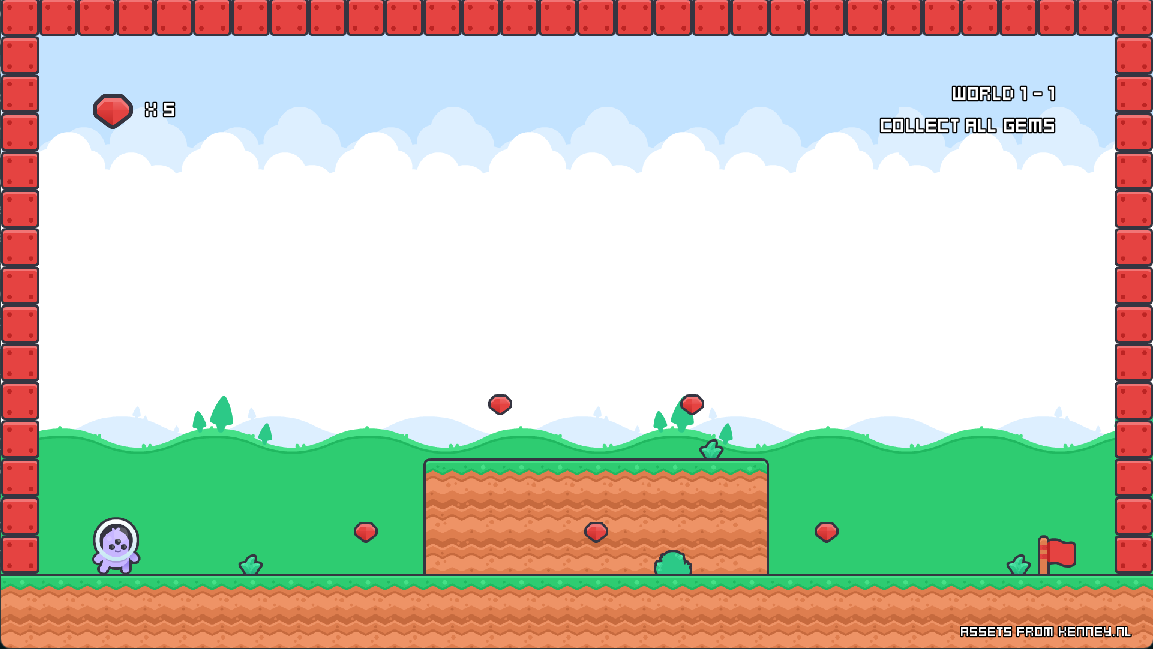
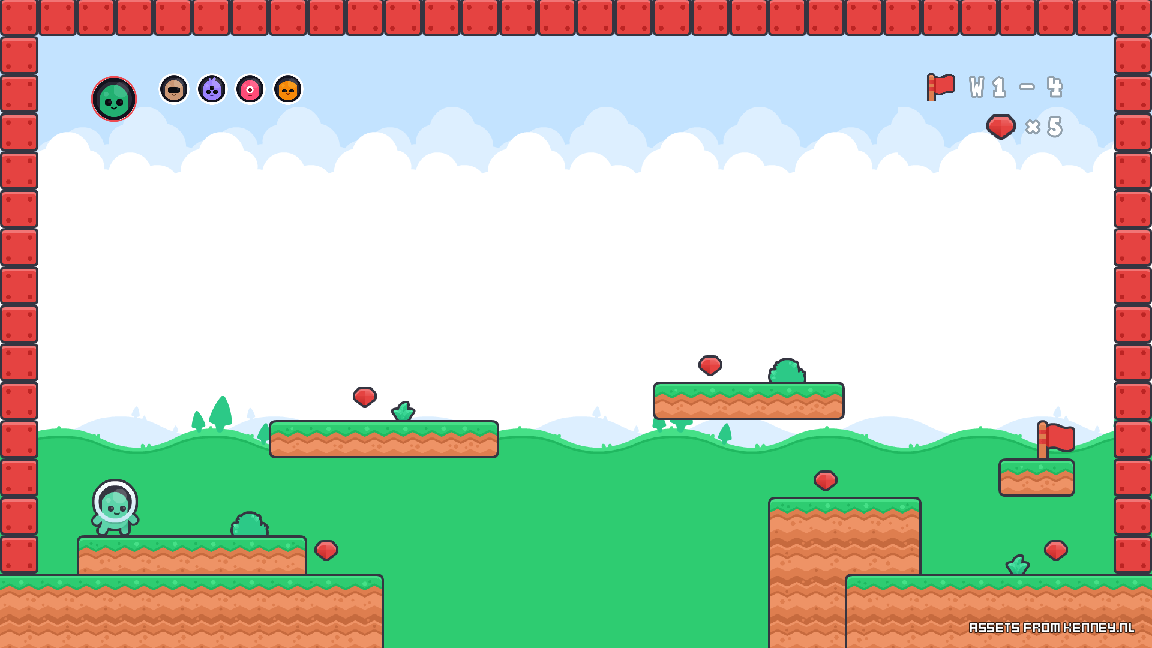
night theme
- added night theme
- few changes on the design

diff --git a/js/script.js b/js/script.js
@@ -1,4 +1,4 @@
-const FALLBACK_THUMBNAIL = 'img/thumbnails/no-thumbnail-minimal.png';
+const FALLBACK_THUMBNAIL = 'img/thumbnails/no-thumbnail-minimal.png';
 // Always begin a fresh page view at the top instead of restoring the last scroll position.
 if ("scrollRestoration" in history) {
   history.scrollRestoration = "manual";
@@ -18,12 +18,12 @@ function resetPagePosition() {
 window.addEventListener("pageshow", resetPagePosition);
 
 const featuredGames = [
+    "gd-2dplatformer",
     "unity-multiplayer",
     "unity-tictac",
     "unity-pocket",
     "gd-penguinrun",
     "uefn-elevator",
-    "ph-fortune",
     "unity-bounceandspin",
     "uefn-hotel"
 ];
@@ -153,16 +153,16 @@ const godotGameData = {
     link: "https://sirreyyy.itch.io/penguin-run"
   },
   "gd-2dplatformer": {
-    title: "GD 2D Platformer",
+    title: "Gembound 2D Platformer",
     tags: "2D | Arcade | Casual | Platformer",
-    thumbnail: "img/thumbnails/no-thumbnail-minimal.png",
-    description: "GD 2D Platformer is a fun, fast-paced puzzle adventure featuring five unique worlds and fifty handcrafted stages! Jump, dash, and solve platforming challenges as you collect gems and coins scattered across each level. Unlock and play as five distinct characters, each bringing their own flair to the journey.",
+    thumbnail: "img/thumbnails/GD-Gembound.png",
+    description: "Gembound 2D Platformer is a fun, fast-paced puzzle adventure featuring five unique worlds and fifty handcrafted stages! Jump, dash, and solve platforming challenges as you collect gems and coins scattered across each level. Unlock and play as five distinct characters, each bringing their own flair to the journey.",
     screenshots: [
       "img/screenshots/gd/gd-2dplatformer-1.png",
       "img/screenshots/gd/gd-2dplatformer-2.png",
       "img/screenshots/gd/gd-2dplatformer-3.png"
     ],
-    link: "https://sirreyyy.itch.io/gd-2d-platformer"
+    link: "https://sirreyyy.itch.io/gd-gembound"
   }
 };
 
@@ -364,6 +364,7 @@ function extractMapCode(link) {
 
 const galleryImageTransitions = new WeakMap();
 function crossfadeGalleryImage(image, source) {
+  source = themedThumbnail(source);
   const previous = galleryImageTransitions.get(image);
   previous?.outgoing?.remove();
   const state = {};
@@ -496,7 +497,7 @@ function createCard(game, gameId) {
   let currentIndex = 0;
 
   const img = document.createElement("img");
-  img.src = imageList[0];
+  img.src = themedThumbnail(imageList[0]);
   img.alt = game.title;
   img.loading = "lazy";
   img.addEventListener("click", () => {
@@ -649,7 +650,7 @@ let featuredPaused = false;
 let featuredImageVersion = 0;
 function updateFeaturedImage(image, game) {
     const version = ++featuredImageVersion;
-    const source = game.thumbnail || FALLBACK_THUMBNAIL;
+    const source = themedThumbnail(game.thumbnail || FALLBACK_THUMBNAIL);
     const previous = image.parentElement.querySelector('.featured-image-outgoing');
     previous?.remove();
 
@@ -672,7 +673,7 @@ function updateFeaturedImage(image, game) {
         image.decode().catch(() => {}).then(() => {
             if (version !== featuredImageVersion) { outgoing.remove(); return; }
             const fade = outgoing.animate([{ opacity: 1 }, { opacity: 0 }], {
-                duration: 600, easing: 'ease-in-out', fill: 'forwards'
+                duration: 300, easing: 'ease-in-out', fill: 'forwards'
             });
             fade.finished.catch(() => {}).finally(() => outgoing.remove());
         });
@@ -784,7 +785,6 @@ siteNav.addEventListener("click", event => {
     navToggle.setAttribute("aria-expanded", "false");
   }
 });
-document.getElementById("featuredExplore").addEventListener("click", () => scrollToGame(featuredGames[featuredIndex]));
 const pauseButton = document.getElementById("featuredPause");
 function updateFeaturedPause() {
   pauseButton.textContent = featuredPaused ? "Resume rotation" : "Pause rotation";
@@ -807,7 +807,8 @@ document.addEventListener("error", event => {
   const image = event.target;
   if (!(image instanceof HTMLImageElement)) return;
   if (!image.matches(".card-media img, .featured-image, .featured-item img, .image-lightbox-image")) return;
-  if (image.getAttribute("src") !== FALLBACK_THUMBNAIL) image.src = FALLBACK_THUMBNAIL;
+  const fallback = themedThumbnail(FALLBACK_THUMBNAIL);
+  if (image.getAttribute("src") !== fallback) image.src = fallback;
 }, true);
 
 
@@ -848,6 +849,7 @@ featuredHero.addEventListener("pointerup", event => {
 });
 featuredHero.addEventListener("pointercancel", () => { swipeStart = null; });
 document.addEventListener("visibilitychange", restartFeaturedTimer);
+document.addEventListener("visibilitychange", restartFeaturedTimer);
 document.addEventListener("keydown", event => {
   if (event.key === "Escape" && siteNav.classList.contains("open")) {
     siteNav.classList.remove("open");
@@ -862,3 +864,34 @@ mobileNavigationQuery.addEventListener("change", () => {
   siteNav.classList.remove("open");
   navToggle.setAttribute("aria-expanded", "false");
 });
+
+
+
+// Persist a manual theme choice without changing gallery or logo assets.
+const themeToggle = document.getElementById("themeToggle");
+function applyTheme(theme) {
+  const selected = theme === "sol" ? "sol" : "luna";
+  document.documentElement.dataset.theme = selected;
+  document.querySelector(".brand-logo").src = selected === "luna" ? "img/SirReyyy-luna.png" : "img/SirReyyy-light.png";
+  document.querySelectorAll("img").forEach(image => {
+    const source = image.getAttribute("src");
+    if (source === FALLBACK_THUMBNAIL || source === "img/thumbnails/no-thumbnail-luna.png") {
+      image.src = themedThumbnail(source);
+    }
+  });
+  document.getElementById("themeName").textContent = selected === "sol" ? "Sol" : "Luna";
+  document.getElementById("themeSymbol").textContent = selected === "sol" ? "☀" : "☾";
+  themeToggle.setAttribute("aria-label", `Switch to ${selected === "sol" ? "Luna" : "Sol"} theme`);
+  themeToggle.setAttribute("title", `Current theme: ${selected === "sol" ? "Sol" : "Luna"}`);
+}
+applyTheme(document.documentElement.dataset.theme);
+themeToggle.addEventListener("click", () => {
+  const theme = document.documentElement.dataset.theme === "luna" ? "sol" : "luna";
+  applyTheme(theme);
+  try { localStorage.setItem("project-z-theme", theme); } catch (_) { /* Storage may be disabled. */ }
+});
+
+function themedThumbnail(source) {
+  if (source !== FALLBACK_THUMBNAIL && source !== "img/thumbnails/no-thumbnail-luna.png") return source;
+  return document.documentElement.dataset.theme === "luna" ? "img/thumbnails/no-thumbnail-luna.png" : FALLBACK_THUMBNAIL;
+}

diff --git a/css/style.css b/css/style.css
@@ -224,3 +224,110 @@ html, body {
 /* Crossfade gallery images while keeping navigation controls above them. */
 .gallery-image-outgoing { pointer-events: none; z-index: 1; }
 .media-arrow, .image-lightbox-arrow, .image-lightbox-close { z-index: 2; }
+
+/* Sol keeps the original palette; Luna colors only the site shell. */
+:root {
+    --shell-bg: #f6f3ed;
+    --shell-text: #202027;
+    --shell-muted: #69696e;
+    --shell-accent: #e85134;
+    --shell-border: #20202735;
+    --shell-header: #f6f3edf5;
+    --shell-footer: #202027;
+    --shell-credits: #2b2b33;
+    --shell-footer-hover: #f78169;
+}
+html[data-theme="luna"] {
+    --shell-bg: #0e1b30;
+    --shell-text: #e6edf9;
+    --shell-muted: #a4b6d0;
+    --shell-accent: #91baff;
+    --shell-border: #a4b6d040;
+    --shell-header: #101f35f5;
+    --shell-footer: #0b1628;
+    --shell-credits: #101e33;
+    --shell-footer-hover: #91baff;
+}
+body { background: var(--shell-bg); color: var(--shell-text); }
+.site-header { background: var(--shell-header); border-bottom-color: var(--shell-border); }
+.header-tools { display: flex; align-items: center; gap: 12px; margin-left: auto; }
+.theme-toggle { display: inline-flex; align-items: center; justify-content: center; gap: 8px; min-height: 44px; padding: 8px 12px; border: 1px solid var(--shell-border); border-radius: 24px; color: var(--shell-text); background: transparent; font-size: 12px; font-weight: 700; }
+#themeSymbol { font-size: 20px; line-height: 1; }
+.theme-toggle:hover { background: var(--shell-text); color: var(--shell-bg); }
+.site-nav a:hover, .header-socials a:hover, .brand-dot, .intro h1 span, .text-link:hover { color: var(--shell-accent); }
+.header-socials { border-left-color: var(--shell-border); }
+.nav-toggle { color: var(--shell-text); border-color: var(--shell-border); }
+.text-link, .featured-heading { border-color: var(--shell-text); }
+.featured-heading > span, .featured-controls, .featured-controls button { color: var(--shell-muted); }
+.featured-heading .engine-logo { filter: brightness(0); }
+html[data-theme="luna"] .featured-heading .engine-logo { filter: brightness(0) invert(1); }
+.featured-dot::after { background: var(--shell-border); }
+.featured-dot[aria-pressed="true"]::after, .featured-dot:hover::after { background: var(--shell-accent); }
+.featured-hero { box-shadow: 0 12px 30px #0003; }
+.footer { background: var(--shell-footer); }
+.footer-credits { background: var(--shell-credits); }
+.footer a:hover, .footer-socials a:hover { color: var(--shell-footer-hover); }
+/* Original Sol gallery palette; Luna overrides below. */
+.portfolio-section { --bg: #f6f3ed; --text: #202027; --muted: #69696e; --accent: #e85134; color: #202027; background: #fff; }
+@media (min-width: 1101px) {
+    .header-content { gap: 20px; }
+    .site-nav { gap: 22px; }
+    .header-links { gap: 22px; }
+}
+@media (min-width: 761px) and (max-width: 1100px) {
+    .header-tools { margin-left: 0; }
+}
+@media (max-width: 760px) {
+    .header-tools { gap: 8px; }
+    .theme-toggle { padding-inline: 10px; }
+    .spotlight-carousel-controls > button { color: var(--shell-text); border-color: var(--shell-border); }
+}
+
+/* Theme gallery surfaces and UI; game artwork and Project Z assets stay unchanged. */
+html[data-theme="luna"] .portfolio-section {
+    --bg: #122139;
+    --text: #e6edf9;
+    --muted: #a4b6d0;
+    --accent: #91baff;
+    color: var(--text);
+    background: var(--bg);
+}
+html[data-theme="luna"] .portfolio-heading > p:last-child,
+html[data-theme="luna"] .engine-title > span,
+html[data-theme="luna"] .description { color: var(--muted); }
+html[data-theme="luna"] .card { border-bottom-color: #a4b6d040; }
+html[data-theme="luna"] .card-media { background: #1c304c; }
+html[data-theme="luna"] .portfolio-section .engine-logo { filter: brightness(0) invert(1); }
+html[data-theme="luna"] .play-btn { color: #0e1b30; }
+html[data-theme="luna"] .play-btn:hover { background: #c1d6ff; }
+html[data-theme="luna"] .media-arrow:hover { background: #91baff; color: #0e1b30; }
+
+
+/* Equal label contrast across spotlight and gallery headings. */
+html[data-theme="luna"] .engine-title > span { color: #a4b6d0; }
+html[data-theme="sol"] .engine-title > span { color: #69696e; }
+/* Strong, explicit foreground/background pairs for hover and keyboard focus. */
+html[data-theme="luna"] .play-btn:is(:hover, :focus-visible) { background: #e6edf9; color: #0e1b30; box-shadow: 0 0 0 2px #91baff; }
+html[data-theme="sol"] .play-btn:is(:hover, :focus-visible) { background: #202027; color: #fff; }
+html[data-theme="luna"] :is(.media-arrow, .image-lightbox-arrow, .image-lightbox-close):is(:hover, :focus-visible) { background: #e6edf9; color: #0e1b30; }
+.featured-controls button:is(:hover, :focus-visible),
+.nav-toggle:is(:hover, :focus-visible) { background: var(--shell-text); color: var(--shell-bg); }
+.theme-toggle:is(:hover, :focus-visible) { background: var(--shell-text); color: var(--shell-bg); }
+html[data-theme="luna"] .featured-dot:hover::after { background: #e6edf9; transform: translate(-50%, -50%) scale(1.5); }
+html[data-theme="luna"] .spotlight-carousel-controls > button:is(:hover, :focus-visible) { background: #e6edf9; color: #0e1b30; }
+
+/* Theme switch follows the social icons in the header navigation. */
+@media (min-width: 761px) {
+    .header-tools { display: none; }
+    .site-nav { margin-left: auto; }
+}
+.header-socials { flex-wrap: wrap; }
+.header-socials .theme-toggle { flex-shrink: 0; }
+
+/* Keep the theme switch dimensions identical for both labels. */
+.header-socials .theme-toggle {
+    width: 92px;
+    height: 44px;
+    flex: 0 0 92px;
+    padding: 8px;
+}

diff --git a/index.html b/index.html
@@ -1,15 +1,24 @@
 <!DOCTYPE html>
-<html lang="en">
+<html lang="en" data-theme="luna">
 <head>
 <meta charset="UTF-8"><meta name="viewport" content="width=device-width, initial-scale=1.0">
 <meta name="description" content="Games and interactive experiences by Rey M. Oronos, Jr. Explore projects built with Unity, Godot, Unreal Engine, UEFN and Phaser.">
 <title>SirReyyy — Games & Interactive Experiences</title>
+<script>
+// Apply the saved palette before the page paints; Luna is the default.
+try {
+    const savedTheme = localStorage.getItem("project-z-theme");
+    document.documentElement.dataset.theme = savedTheme === "sol" ? "sol" : "luna";
+} catch (_) { document.documentElement.dataset.theme = "luna"; }
+</script>
 <link rel="stylesheet" href="css/style.css">
 </head>
 <body>
 <header class="site-header"><div class="container header-content">
 <a href="index.html" class="brand" aria-label="SirReyyy home"><img src="img/SirReyyy-light.png" class="brand-logo" alt="" width="1280" height="1280"><span class="brand-text"><strong>SirReyyy<span class="brand-dot">.</span></strong><small>Rey M. Oronos, Jr.</small></span></a>
-<button class="nav-toggle" type="button" aria-expanded="false" aria-controls="siteNav">Menu <span aria-hidden="true">☰</span></button>
+<div class="header-tools">
+
+<button class="nav-toggle" type="button" aria-expanded="false" aria-controls="siteNav">Menu <span aria-hidden="true">☰</span></button></div>
 <nav class="site-nav" id="siteNav" aria-label="Main navigation">
     <div class="header-links">
         <a href="#featured">Featured</a>
@@ -21,14 +30,15 @@
             <a href="https://github.com/SirReyyy" target="_blank" rel="noopener noreferrer" aria-label="GitHub"><img src="img/logo/github.png" alt="" width="28" height="28"></a>
             <a href="https://www.linkedin.com/in/reymoronosjr/" target="_blank" rel="noopener noreferrer" aria-label="LinkedIn"><img src="img/logo/linkedin.png" alt="" width="28" height="28"></a>
             <a href="https://sirreyyy.itch.io/" target="_blank" rel="noopener noreferrer" aria-label="itch.io"><img src="img/logo/itch.png" alt="" width="28" height="28"></a>
+            <button id="themeToggle" class="theme-toggle" type="button" aria-label="Switch to Sol theme"><span id="themeSymbol" aria-hidden="true">☾</span><span id="themeName">Luna</span></button>
         </div>
 </nav>
 </div></header>
 <main>
 <section id="featured" class="section featured-section"><div class="container">
-<div class="intro"><div><p class="eyebrow">Game developer / Creative explorer</p><h1>Small ideas.<br><span>Big play.</span></h1></div><div class="intro-copy"><p>I’m Rey. I build games and interactive experiences across Unity, Godot, Unreal Engine, and Fortnite.</p><a class="text-link" href="#portfolio">Explore my games <span aria-hidden="true">↘</span></a></div></div>
+<div class="intro"><div><p class="eyebrow">Game developer</p><h1>From concept<br><span>to gameplay.</span></h1></div><div class="intro-copy"><p>Hi, Rey here.<br>Take a look around and explore what I’ve been working on.</p><a class="text-link" href="#portfolio">Explore my games <span aria-hidden="true">↘</span></a></div></div>
 <div class="featured-wrapper"><div class="engine-title featured-heading"><div><img src="img/logo/featured.png" width="100" height="100" alt="" class="engine-logo"><h2>In the spotlight</h2></div><span>00 / Featured Projects</span></div>
-<div class="featured-layout" role="region" aria-roledescription="carousel" aria-label="Featured games"><div class="featured-hero"><img id="featuredImage" class="featured-image" alt=""><div class="featured-overlay"><div><p id="featuredEngine" class="eyebrow"></p><h2 id="featuredTitle"></h2></div><button id="featuredExplore" class="hero-link" type="button">Explore game ↗</button></div></div></div>
+<div class="featured-layout" role="region" aria-roledescription="carousel" aria-label="Featured games"><div class="featured-hero"><img id="featuredImage" class="featured-image" alt=""><div class="featured-overlay"><div><p id="featuredEngine" class="eyebrow"></p><h2 id="featuredTitle"></h2></div></div></div></div>
 <div class="mobile-carousel-controls spotlight-carousel-controls" aria-label="Featured carousel controls">
     <button id="featuredPrevious" type="button" aria-label="Previous featured game">←</button>
     <div id="featuredDots" class="featured-dots" aria-label="Choose a featured game"></div>
@@ -73,6 +83,14 @@
 <div id="achievement-popup"><div class="achievement-icon">🏆</div><div class="achievement-text"><div class="achievement-title">Achievement Unlocked</div><div class="achievement-name"></div><div class="achievement-desc"></div></div></div>
 <script src="js/script.js"></script><script src="js/achievements.js"></script>
 </body></html>
+
+
+
+
+
+
+
+
 
 
 
